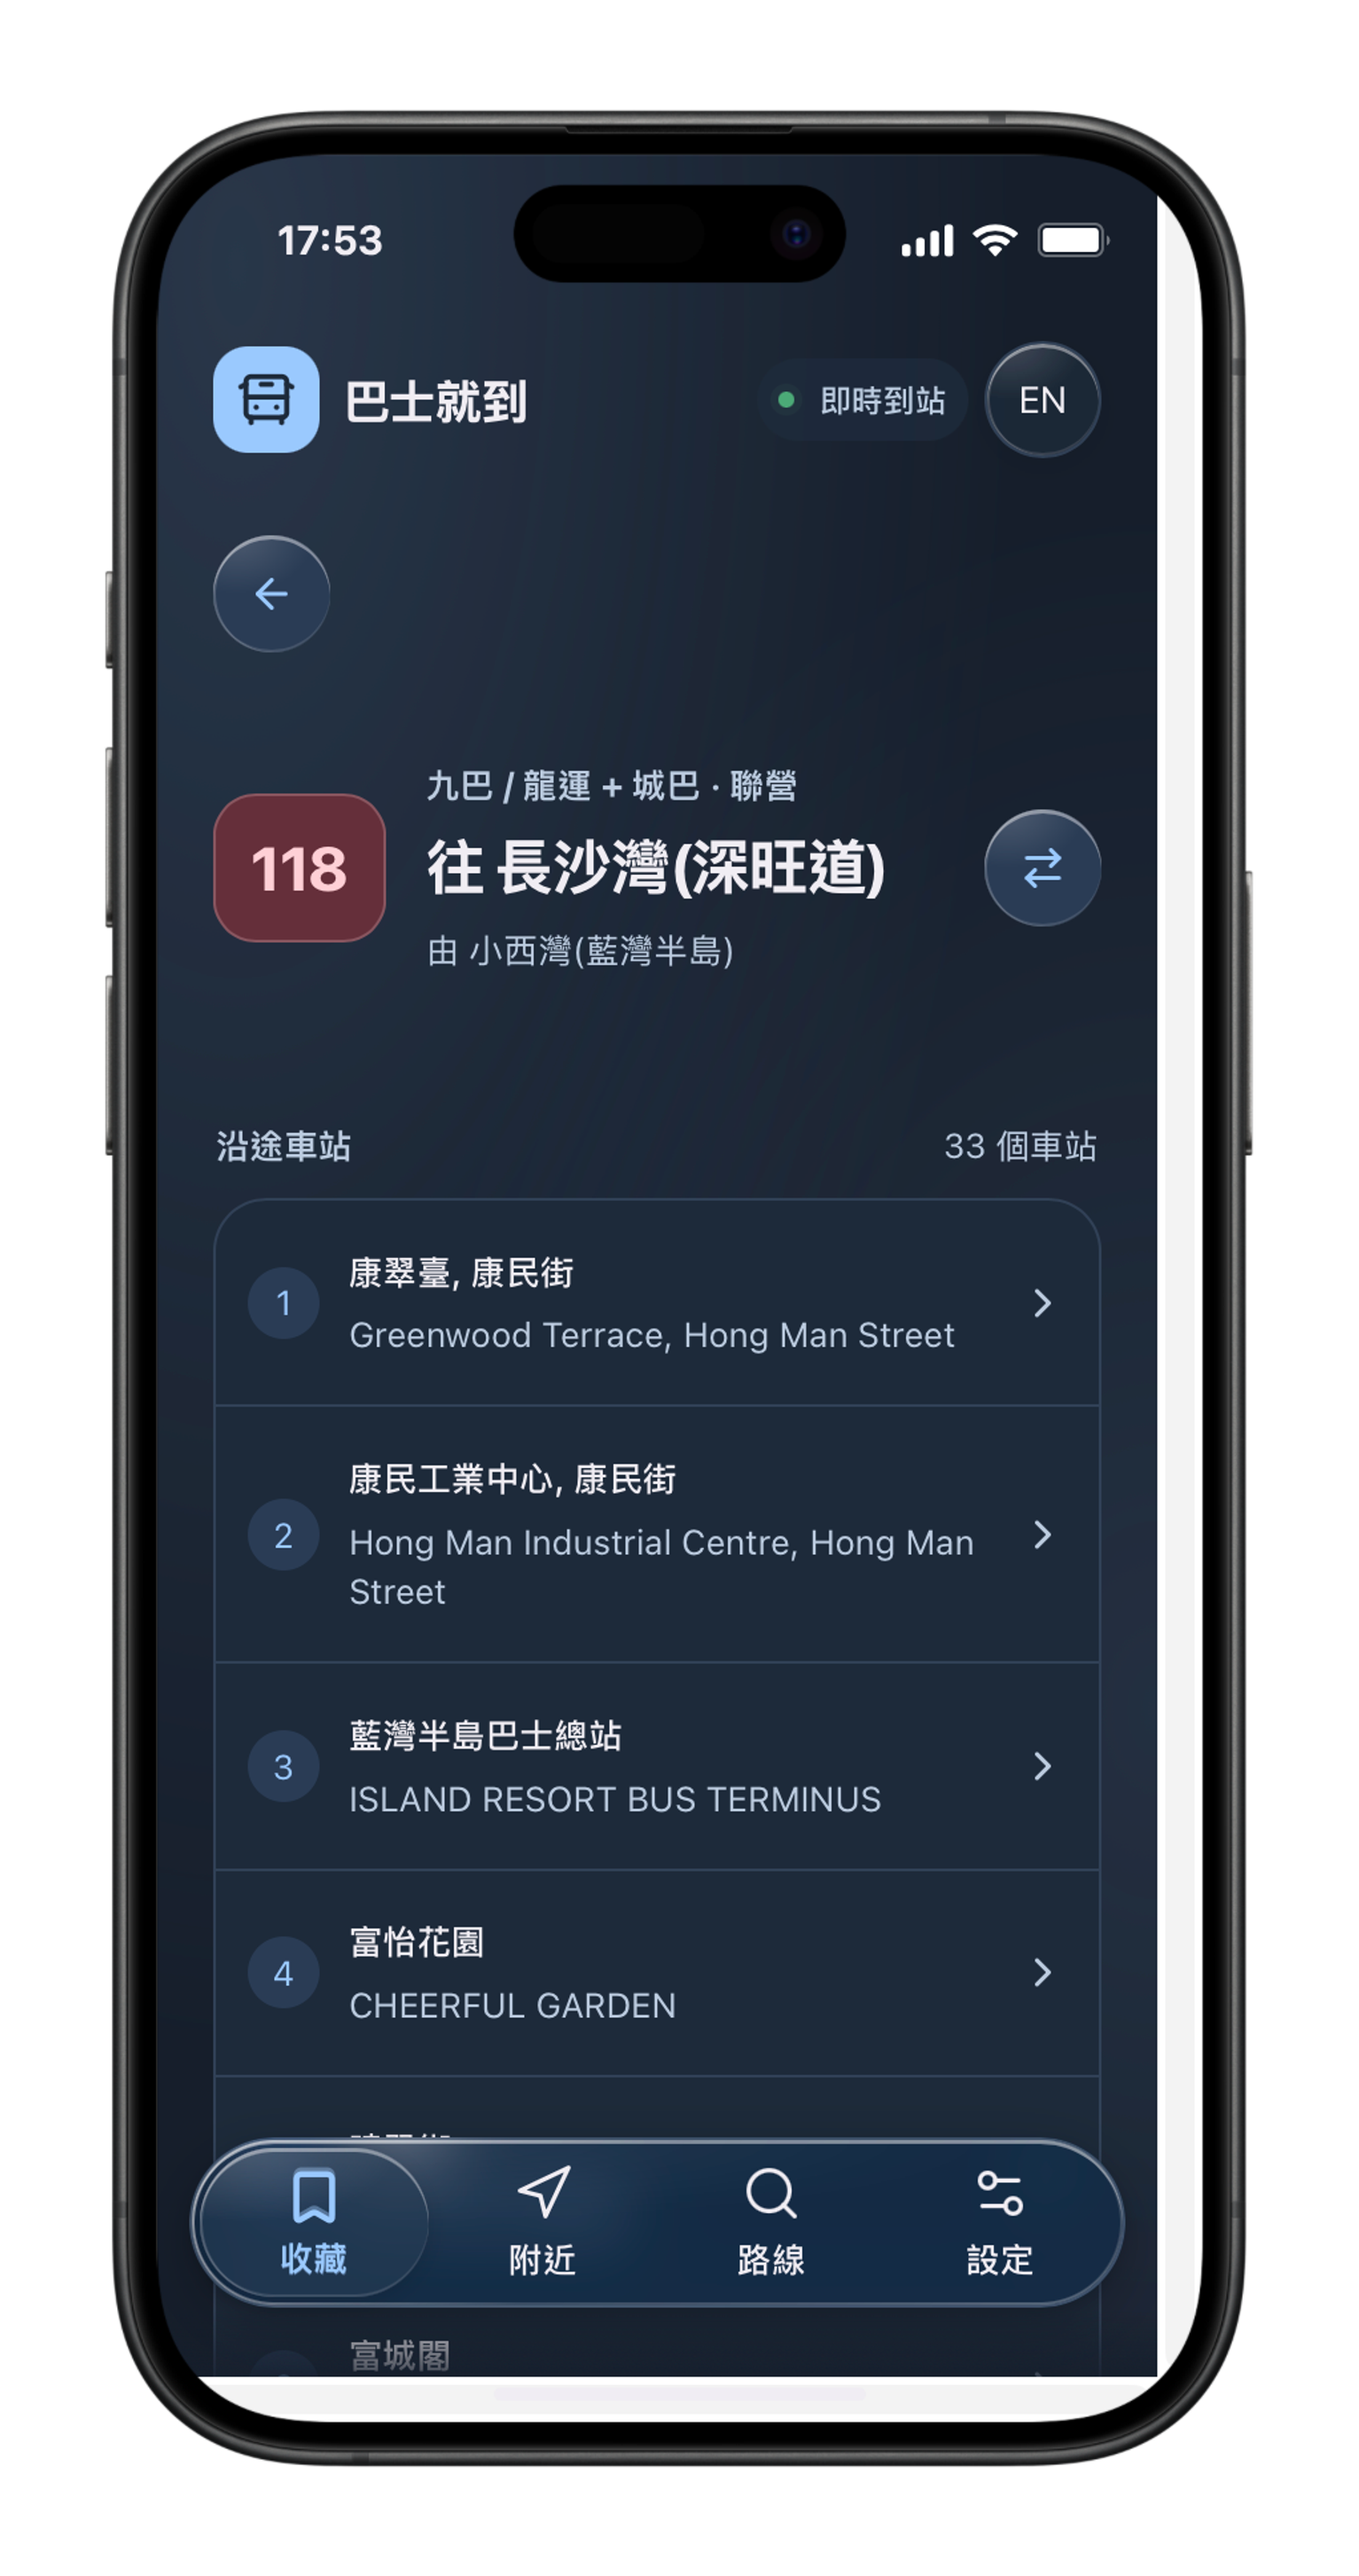
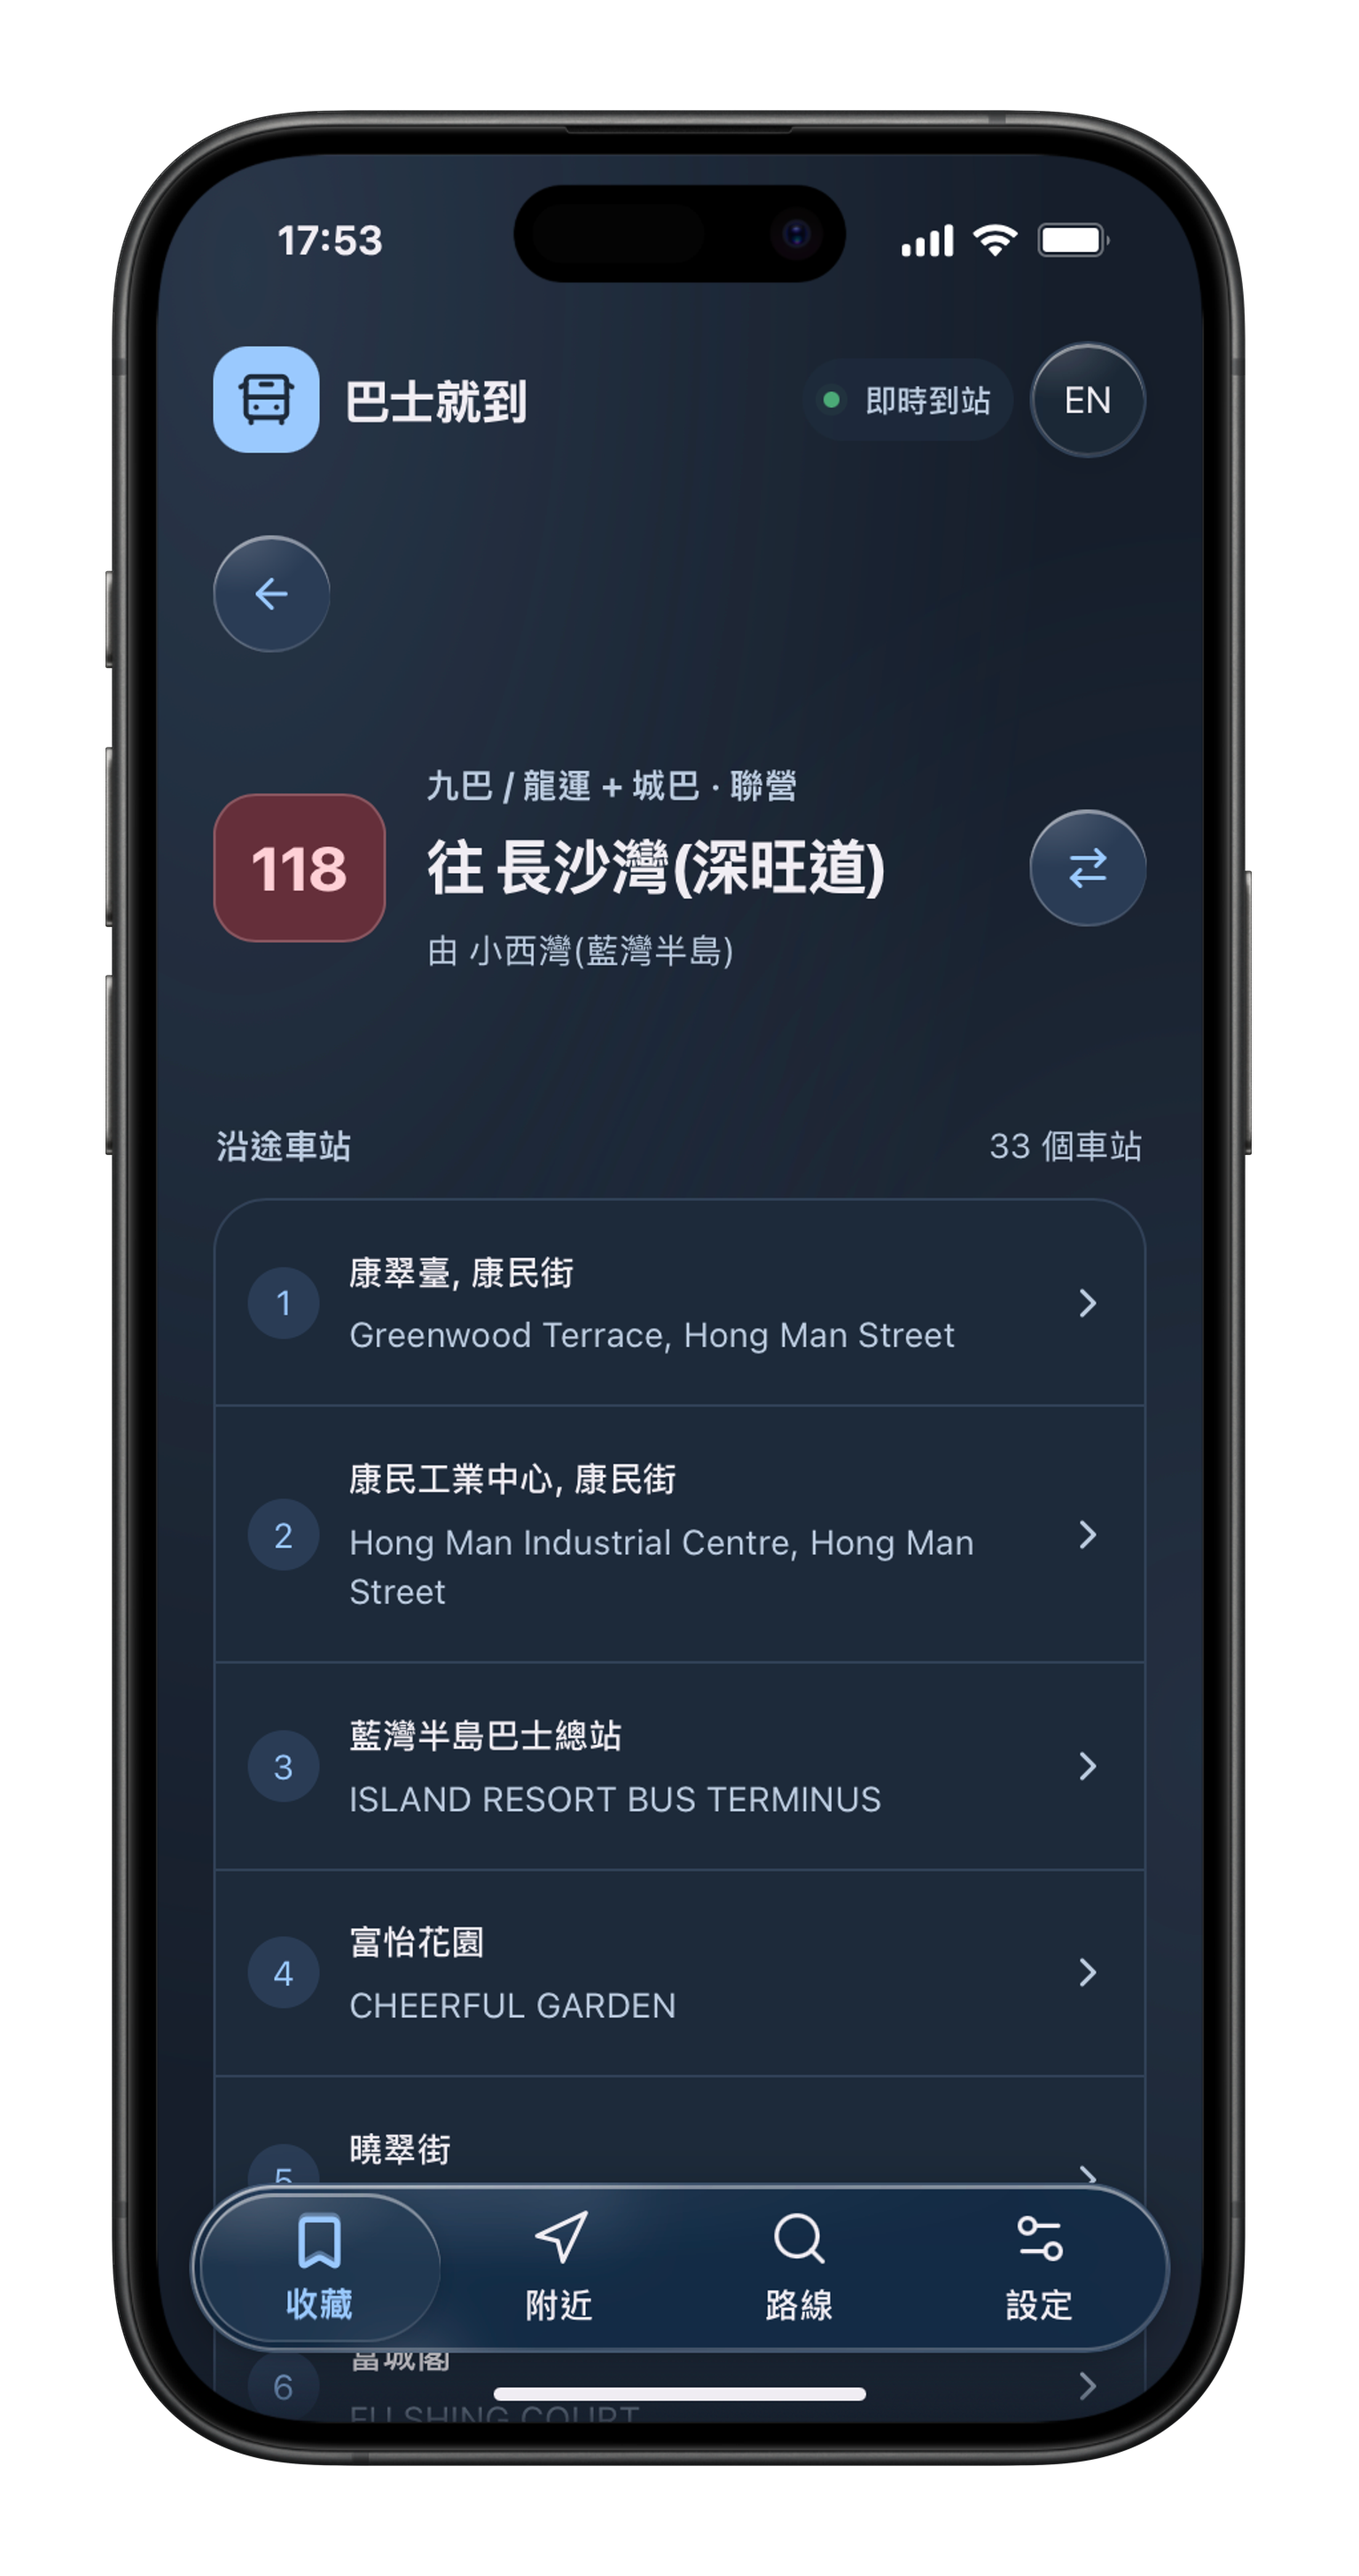
Fix screenshot framing

Changed region(s): [[0.1226, 0.062, 0.8891, 0.9607]]

diff --git a/scripts/templates/iphone/frame.html b/scripts/templates/iphone/frame.html
@@ -4,11 +4,11 @@
         <style>
             {{STATUS_CSS}}
             * { box-sizing: border-box; }
-            body { margin: 0; width: 511px; height: 968px; font-family: -apple-system, BlinkMacSystemFont, sans-serif; }
-            .phone { position: relative; width: 511px; height: 968px; }
-            .screen { position: absolute; left: 59px; top: 58px; width: 393px; height: 852px; border-radius: 42px; overflow: hidden; }
-            .capture { display: block; width: 393px; height: 852px; }
-            .bezel { position: absolute; inset: 0; width: 511px; height: 968px; pointer-events: none; }
+            body { margin: 0; width: {{DEVICE_WIDTH}}px; height: {{DEVICE_HEIGHT}}px; font-family: -apple-system, BlinkMacSystemFont, sans-serif; }
+            .phone { position: relative; width: {{DEVICE_WIDTH}}px; height: {{DEVICE_HEIGHT}}px; }
+            .screen { position: absolute; left: {{SCREEN_X}}px; top: {{SCREEN_Y}}px; width: {{SCREEN_WIDTH}}px; height: {{SCREEN_HEIGHT}}px; border-radius: {{SCREEN_RADIUS}}px; overflow: hidden; }
+            .capture { display: block; width: {{SCREEN_WIDTH}}px; height: {{SCREEN_HEIGHT}}px; }
+            .bezel { position: absolute; inset: 0; width: {{DEVICE_WIDTH}}px; height: {{DEVICE_HEIGHT}}px; pointer-events: none; }
             .status-bar { color: {{INK}}; }
             .status-indicator-svg { filter: {{FILTER}}; }
             .home { position: absolute; bottom: 8px; left: 50%; transform: translateX(-50%); width: 140px; height: 5px; border-radius: 100px; background: {{INK}}; }

diff --git a/docs/DEVELOPMENT.md b/docs/DEVELOPMENT.md
@@ -257,8 +257,30 @@ The intentionally published README screenshots are an exception: keep `docs/imag
 control. `scripts/render-readme.mjs` uses the installed macOS Safari app through its built-in WebDriver,
 including the device-frame rendering. Chrome/Chromium and Playwright WebKit are not substitutes. If Safari is
 unavailable (for example, on Windows), refuse requests to generate new screenshots and explain the requirement.
-The app renders at 393×852 CSS pixels, Traditional Chinese and blue, in both appearances. Safari supplies the
-native backing scale (2× in the 23 October capture); Sharp normalizes the framed output to 1533×2904 pixels.
+`scripts/templates/iphone/source.json` is the authoritative geometry source, shared by the capture wrapper,
+frame template and validation helpers. These dimensions fit the actual transparent opening in `bezel.png`:
+
+| Layer                 | CSS dimensions | Position in phone canvas | Published pixels at 3× |
+| --------------------- | -------------- | ------------------------ | ---------------------- |
+| App viewport / screen | 393×852        | x=59, y=58; radius=42    | 1179×2556              |
+| Phone canvas          | 511×968        | x=0, y=0                 | 1533×2904              |
+
+Do not use the older 402×874 dimensions or change the screen size to compensate for scrollbar gutters.
+Safari supplies the native backing scale: at 2×, the raw app capture must be exactly 786×1704 and the frame
+1022×1936 before normalization to the published 3× canvas. The renderer checks both app raster dimensions and
+that `innerWidth`/`innerHeight` **and** root `clientWidth`/`clientHeight` equal 393×852. Capture-only styles hide
+desktop scrollbars in the app and prevent overflow/baseline gaps in its wrapper; scrolling still works in the app.
+The earlier right/bottom white bands were desktop scrollbar gutters, not extra phone screen area.
+
+Safari viewport screenshots flatten transparent page backgrounds to white. `scripts/readme-image.mjs`
+restores exterior RGBA from the original bezel: it flood-fills from the raster boundary through non-opaque
+bezel pixels, preserving the enclosed screen and the original feathered outer edge. This makes the area outside
+the phone transparent without colour-keying white cards or text. Run `node --test scripts/readme-image.test.mjs`:
+regressions reject scrollbar-reduced viewports, incorrect raster dimensions and white dark-screen edge bands,
+and verify transparent corners, preserved white screen content and feathering. Review all four PNGs on light,
+dark and checkerboard backgrounds, including their right and bottom screen edges at full resolution.
+
+The app uses Traditional Chinese and blue in both appearances.
 The temporary loopback proxy substitutes 62px/34px top/bottom safe areas and the selected appearance in development
 stylesheets. An isolated automation session receives dated fixture data and a fixed app clock before startup;
 worker clocks and API requests use the same replay to prevent late live-data changes.

diff --git a/docs/REQUIREMENTS-AND-STATUS.md b/docs/REQUIREMENTS-AND-STATUS.md
@@ -105,7 +105,13 @@ screenshots were reviewed in light/dark appearance. Additional checks exercised 
 in both engines, and reduced transparency, forced-colour selection and keyboard navigation in Chromium.
 The published README includes four framed iPhone 17 previews refreshed on 23 October 2026 with installed
 Safari 27.0.1, including the device-frame rendering. App content renders at 393×852 CSS pixels with Safari’s native
-2× backing scale; framed PNGs are normalized to 1533×2904 pixels. All four Traditional Chinese, blue, light/dark
+2× backing scale; framed PNGs are normalized to 1533×2904 pixels. The 393×852 screen is placed at (59, 58)
+in the 511×968 phone canvas. The corrected capture suppresses 17px desktop scrollbar gutters that previously
+left white right/bottom bands and asserts usable client and raster dimensions. The exterior now restores the
+original bezel alpha rather than leaving Safari’s flattened white background. Geometry/transparency regressions
+cover incorrect dimensions/aspect ratios, white edge bands, transparent corners, white app content and feathered
+frame edges. All four corrected PNGs were reviewed on white, dark and checkerboard backgrounds; their exterior
+corners have alpha zero. Four geometry/transparency regressions passed alongside the checks below. All four Traditional Chinese, blue, light/dark
 saved-stop and route views were visually reviewed after catalogue loading, fonts, finite animations and a
 three-second settling delay. Safari reported full glass effects, translucent surfaces and active backdrop blur;
 these checks do not establish physical iPhone rendering. Formatting, lint, build, 119 unit tests and toolchain

diff --git a/AGENTS.md b/AGENTS.md
@@ -24,6 +24,7 @@ Follow the existing four-space source convention observed in `src/types/transit.
 - Generate published screenshots using the installed Safari app, including any browser-rendered device frame. Do not use Chrome/Chromium or treat Playwright WebKit as Safari.
 - If a prompt requests new screenshots and Safari is unavailable (for example, on Windows), refuse to generate screenshots and explain that Safari is required; do not substitute another browser.
 - Before each capture, wait for data loading, fonts and finite UI animations to finish, then allow at least three additional seconds for transparency and blur to settle. Visually review these effects and check for clipping before publishing; do not capture immediately after loading or navigation.
+- Use `scripts/templates/iphone/source.json` as the capture geometry source: app viewport 393×852 CSS pixels, phone canvas 511×968, screen offset (59, 58), published PNG 1533×2904 at 3×. Suppress desktop scrollbar gutters in capture-only styles and verify usable client dimensions match the viewport. Keep the area outside the phone transparent using the bezel alpha; never remove white app content by colour. Review on light, dark and checkerboard backgrounds and run `node --test scripts/readme-image.test.mjs`.
 - Keep capture data isolated from user browsing data, replay dated fixtures in both the page and workers, and document capture limitations. See the development guide for the Safari screenshot workflow.
 
 ## App versioning
